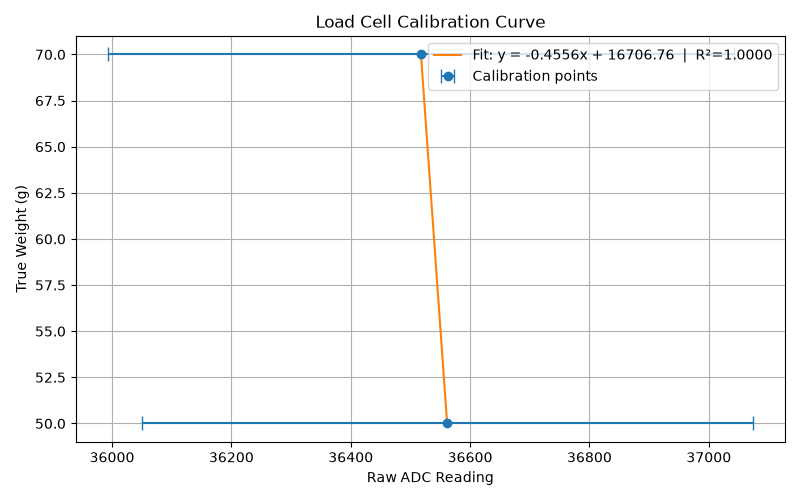
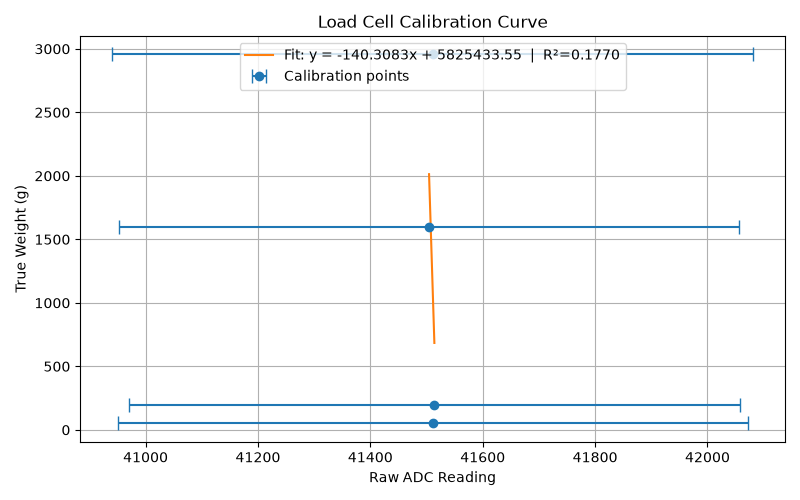
first calibration run completed

diff --git a/load_cell_calibration_ADS1220/src/calibration.py b/load_cell_calibration_ADS1220/src/calibration.py
@@ -14,7 +14,7 @@ from rendering import PointsInSpace
 
 # Settings
 #----------------------------------------------------------------------
-NUM_SAMPLES = 50        # samples to average per calibration point
+NUM_SAMPLES = 5000        # samples to average per calibration point (5 sec)
 MIN_MESSAGE_BYTES = 16
 BAUD_RATE = 115200
 CALIBRATION_CSV = "calibration.csv"
